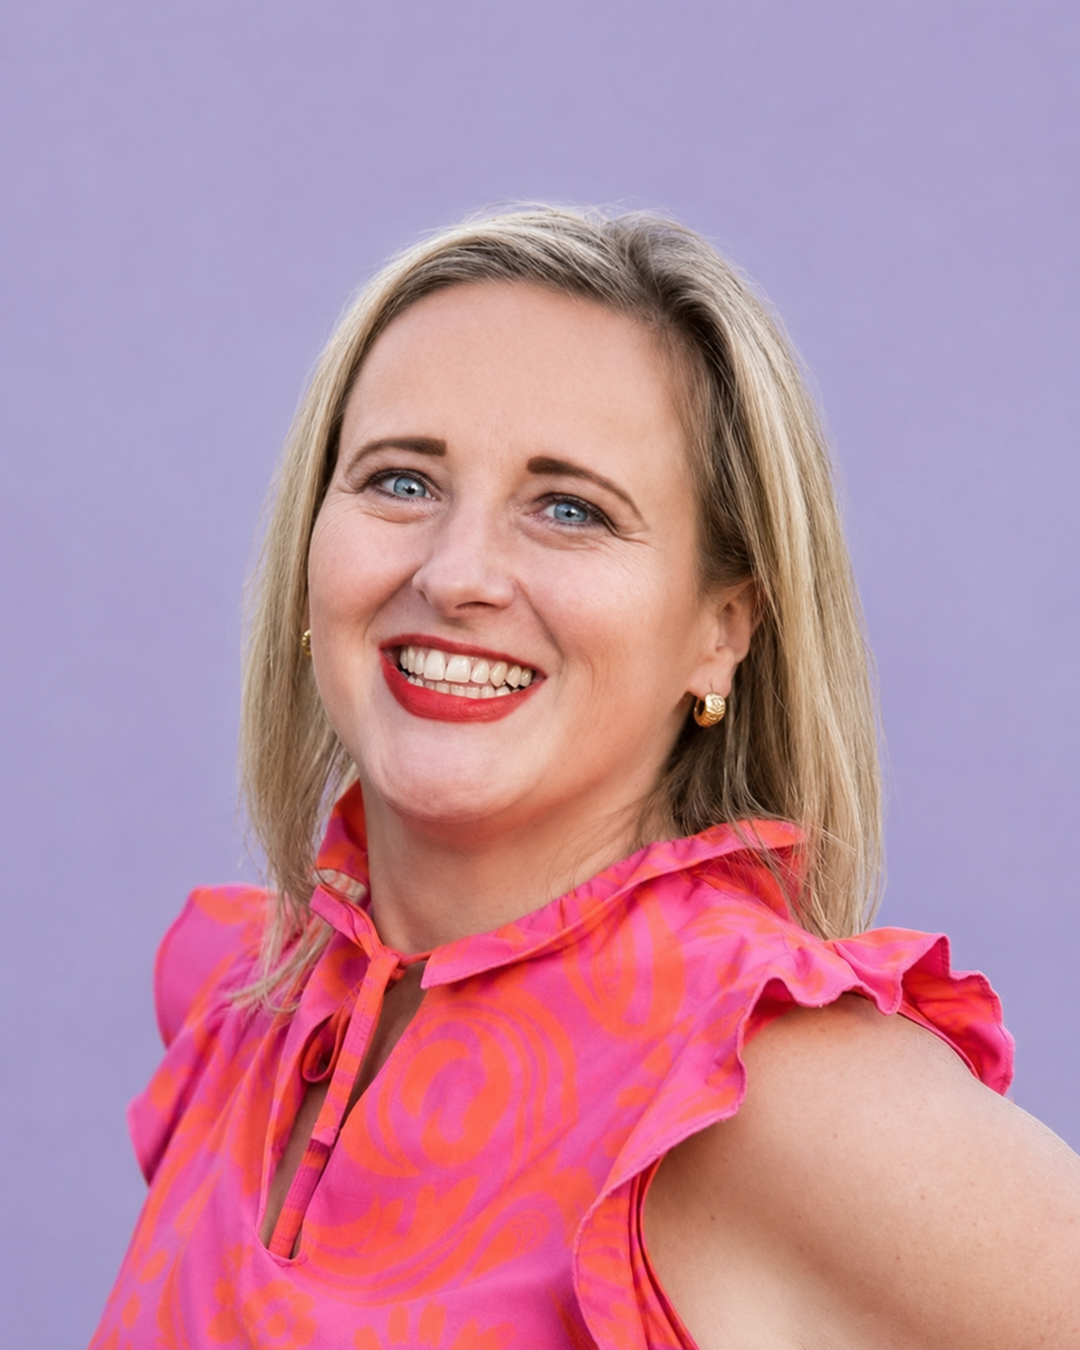
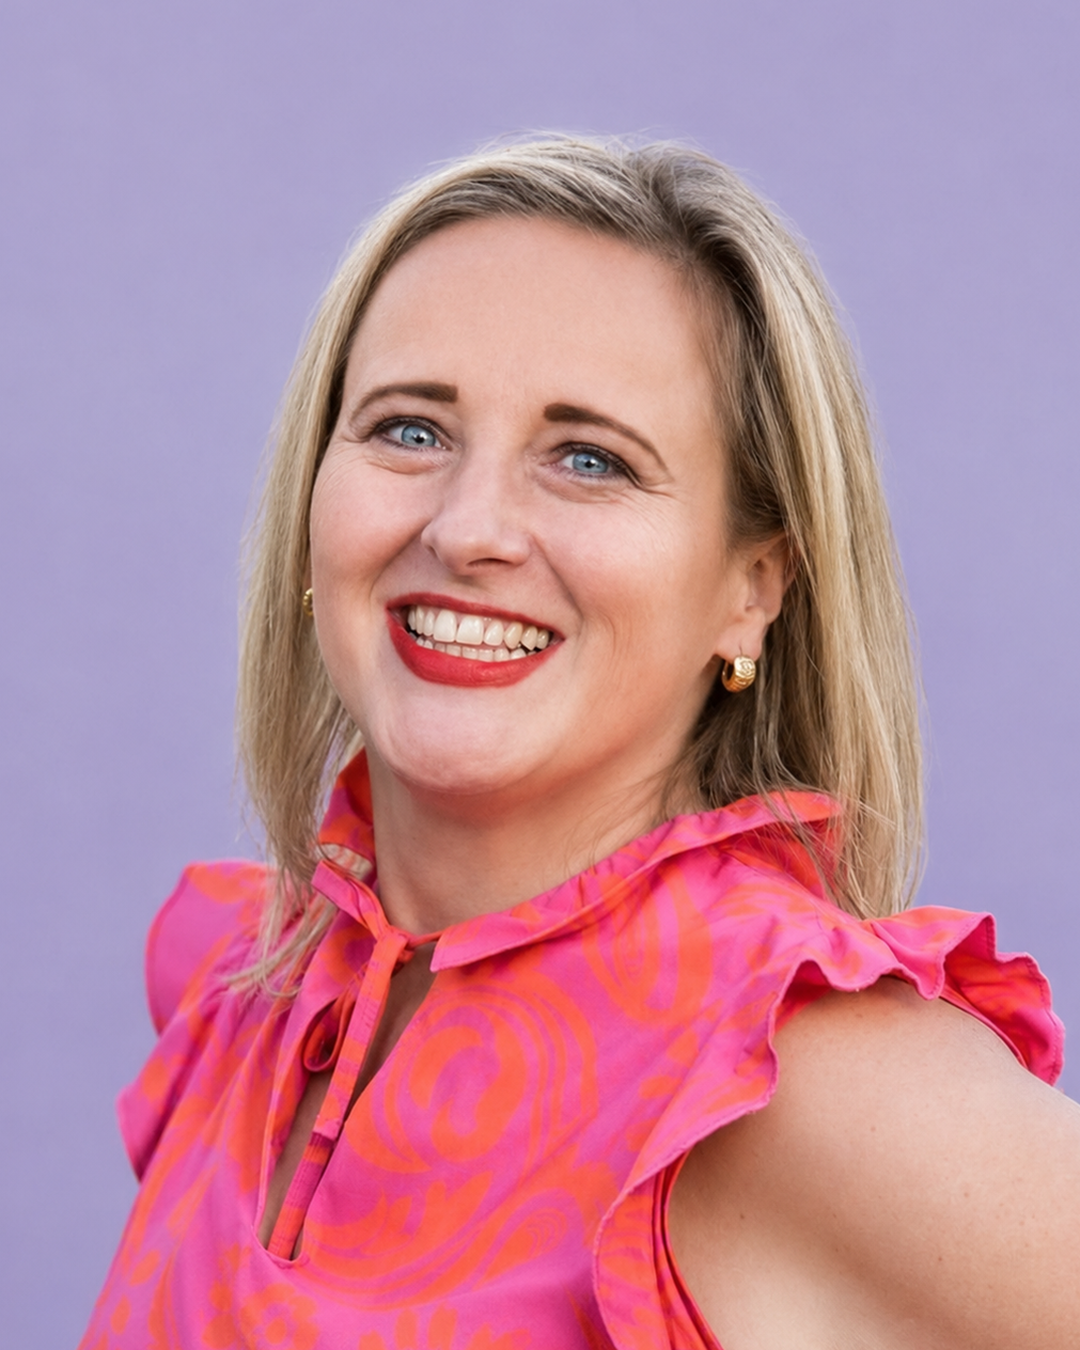
oprava

diff --git a/index.html b/index.html
@@ -181,7 +181,7 @@ Vyžaduje zkušenosti, trpělivost, schopnost naslouchat a především srdce. D
             <h3>Zdena Kašparová</h3><p class="candidate-role">Kandidátka do zastupitelstva</p><ul class="charakteristika candidate-topics"><li>Školství, mládež a vzdělávání</li><li>Životní prostředí, odpady a veřejný prostor</li></ul></a>
           </article>
           <article class="candidate-card">
-            <div class="candidate-photo"><a href="personal web pages/martina-klusakova.html"><img src="kandidati/16. Martina - citronově žluta.jpeg" alt="Martina" width="760" height="950" loading="lazy"></div>
+            <div class="candidate-photo"><a href="personal web pages/martina-klusakova.html"><img src="kandidati/16. Martina - citronově žlutá.png" alt="Martina" width="760" height="950" loading="lazy"></div>
             <h3>Martina Klusáková</h3><p class="candidate-role">Kandidátka do zastupitelstva</p><ul class="charakteristika candidate-topics"><li>Podnikání, cestovní ruch a živé centrum</li><li>Kultura, památky a komunitní život</li></ul></a>
           </article>
           <article class="candidate-card">
